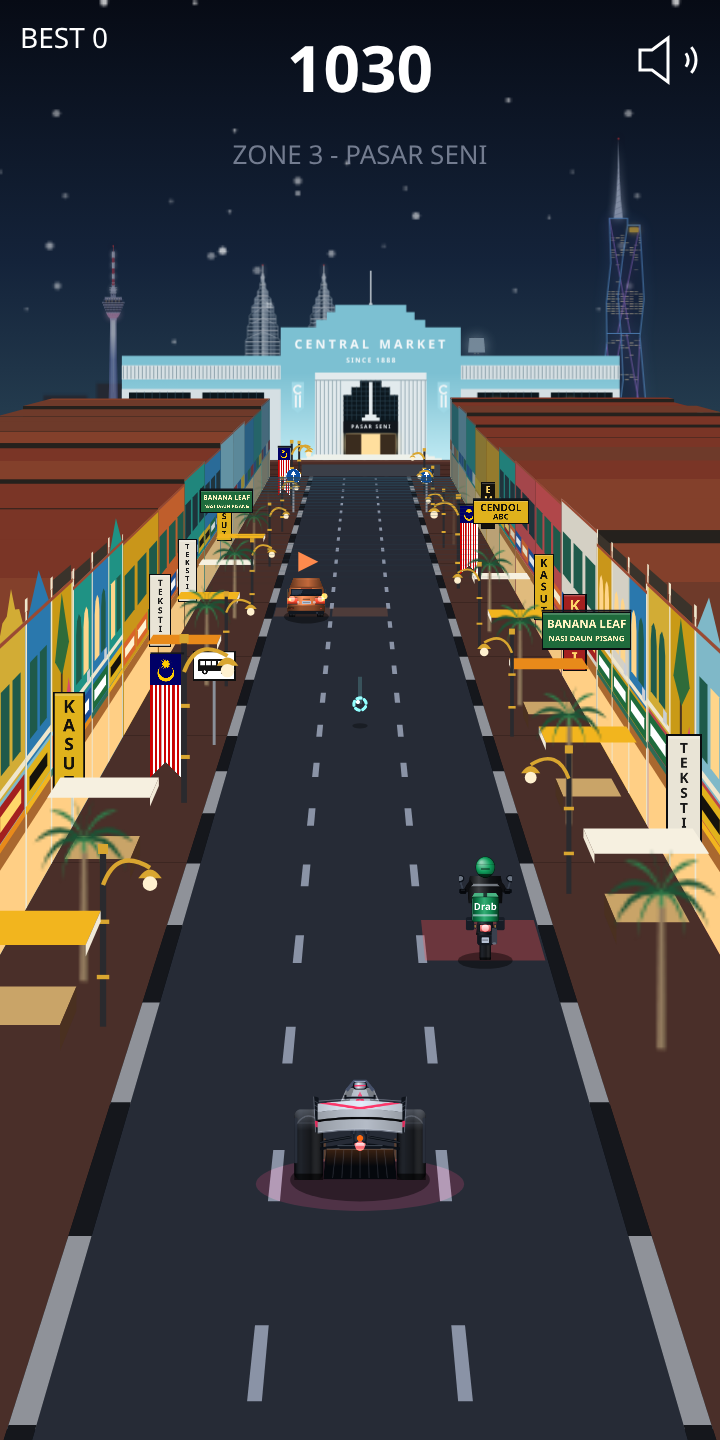
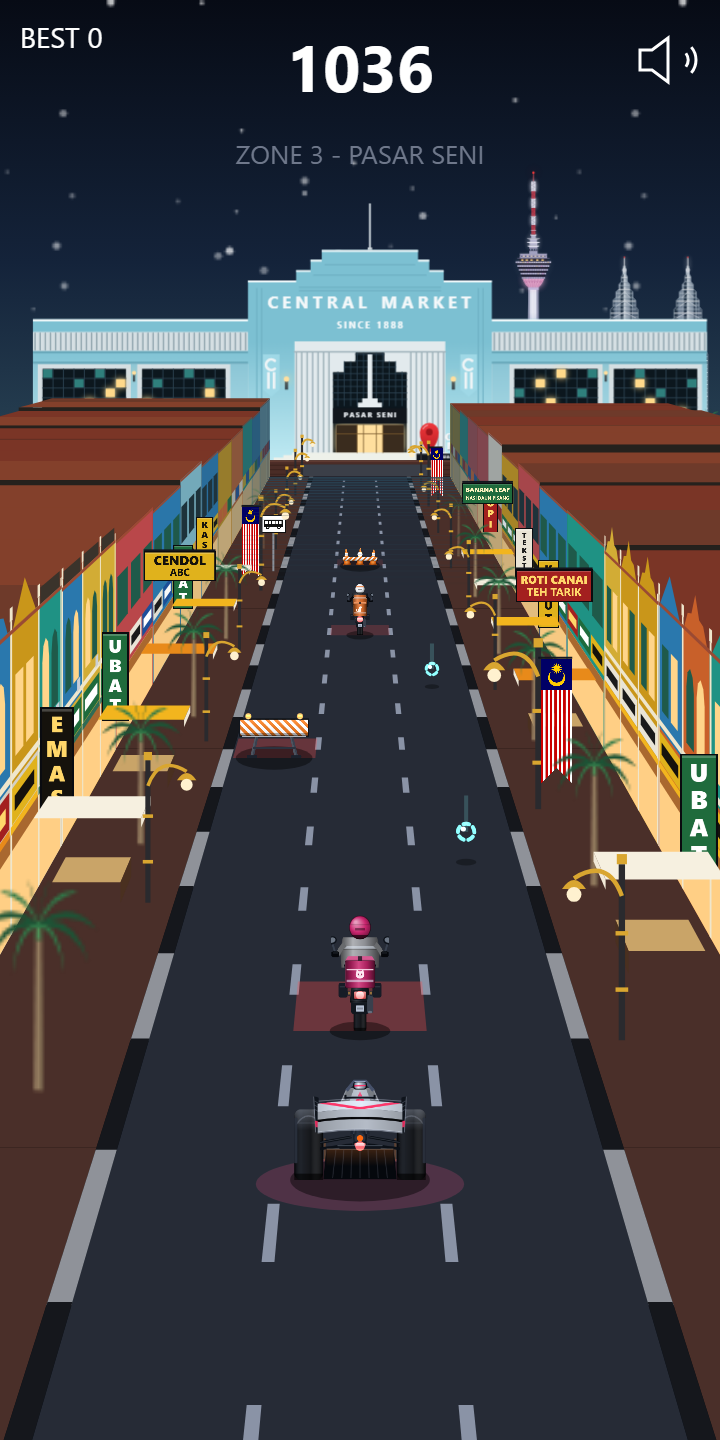
Refresh README renders and fix the district screenshot export
The Bukit Bintang and Pasar Seni screenshots and the monorail and
Central Market tiles now show the redrawn train and piers, the detailed
market facade with its pin and place sign, and KL Tower behind it.

The export script keeps the district file names the README links to when
a zone is added, times each shot from distance instead of the HUD score
(which also counts pickup bonuses), and falls back to Playwright's
bundled Chromium when Google Chrome is not installed.

diff --git a/docs/readme/export_assets.py b/docs/readme/export_assets.py
@@ -42,6 +42,21 @@ LANDMARKS = [
     ("monorailStation", "bukitBintang", []),
 ]
 
+# District screenshots: zone key -> file name. The names are what README.md links to, so they
+# stay put when a zone is added to KL_ZONES; a zone that is not listed here gets no screenshot.
+DISTRICT_FILES = {
+    "bukitBintang": "district-1-bukitBintang.png",
+    "petalingStreet": "district-2-petalingStreet.png",
+    "pasarSeni": "district-3-pasarSeni.png",
+    "brickfields": "district-4-brickfields.png",
+    "dataranMerdeka": "district-5-dataranMerdeka.png",
+    "ilham": "district-6-ilham.png",
+    "klcc": "district-7-klcc.png",
+    "ampang": "district-8-ampang.png",
+    "batuCaves": "district-9-batuCaves.png",
+}
+STREET_SPEED = 72   # m/s, fixed for the whole screenshot run
+
 # Order of makeSprite() calls in buildSprites(); kapcai keys follow KAPCAI_KEYS.
 SPRITE_ORDER = ["playerCar", "hatchback", "kapcai", "kapcaiPlain",
                 "kapcaiJade", "kapcaiMelon", "kapcaiMagenta", "coneRow", "barrier"]
@@ -200,7 +215,7 @@ def export_streets(browser, url):
                               is_mobile=True, has_touch=True)
     page = ctx.new_page()
     page.clock.install()
-    page.goto(url + "?QUALITY=high&seed=7&SPEED_START=72&SPEED_MAX=72&HITBOX_X=0")
+    page.goto(url + "?QUALITY=high&seed=7&SPEED_START=%d&SPEED_MAX=%d&HITBOX_X=0" % (STREET_SPEED, STREET_SPEED))
     for _ in range(600):                                   # boot bakes are queued setTimeouts
         if page.evaluate("document.documentElement.hasAttribute('data-game-ready')"):
             break
@@ -208,20 +223,23 @@ def export_streets(browser, url):
     else:
         raise SystemExit("game never became ready")
     zones = page.evaluate("KL_ZONES.map(z => z.key)")
-    zone_dist = 400
+    zone_dist = page.evaluate("KL_STREET.ZONE_LEN")
     page.click("text=PLAY NOW")
     t = 0.0
     for i, key in enumerate(zones):
-        # Under the fake clock the run covers about 82.8 m per second plus ~38 m before the first frame
-        # (measured from the HUD score); aim for the middle of each zone.
-        # Batu Caves only takes over the skyline late (its gate is delayed), so shoot that one near the end.
+        name = DISTRICT_FILES.get(key)
+        if not name:
+            continue                                       # zone without a README shot
+        # SPEED_START = SPEED_MAX pins the speed, so distance is exactly speed * run time.
+        # (The HUD score is no use for calibration: it also counts pickup bonuses.)
+        # Aim for the middle of each zone. Batu Caves only takes over the skyline late
+        # (its gate is delayed), so shoot that one near the end.
         frac = 0.85 if key == 'batuCaves' else 0.5
-        target = ((i + frac) * zone_dist - 38) / 82.8
-        step = int((target - t) * 1000)
-        page.clock.run_for(step)
+        target = (i + frac) * zone_dist / STREET_SPEED
+        page.clock.run_for(int((target - t) * 1000))
         t = target
-        page.screenshot(path=str(OUT / ("district-%d-%s.png" % (i + 1, key))))
-        print("  wrote district-%d-%s.png" % (i + 1, key))
+        page.screenshot(path=str(OUT / name))
+        print("  wrote", name)
     ctx.close()
 
 
@@ -231,7 +249,13 @@ def main():
     httpd, url = serve()
     try:
         with sync_playwright() as p:
-            browser = p.chromium.launch(channel="chrome")
+            try:
+                browser = p.chromium.launch(channel="chrome")
+            except Exception:
+                # No Google Chrome here (e.g. WSL): Playwright's own Chromium works, but it only has
+                # the fonts installed on this machine, so text can differ from the committed images.
+                print("WARNING: Google Chrome not found - using Playwright's bundled Chromium")
+                browser = p.chromium.launch()
             if what in ("all", "tiles"):
                 export_tiles(browser, url)
             if what in ("all", "streets"):
